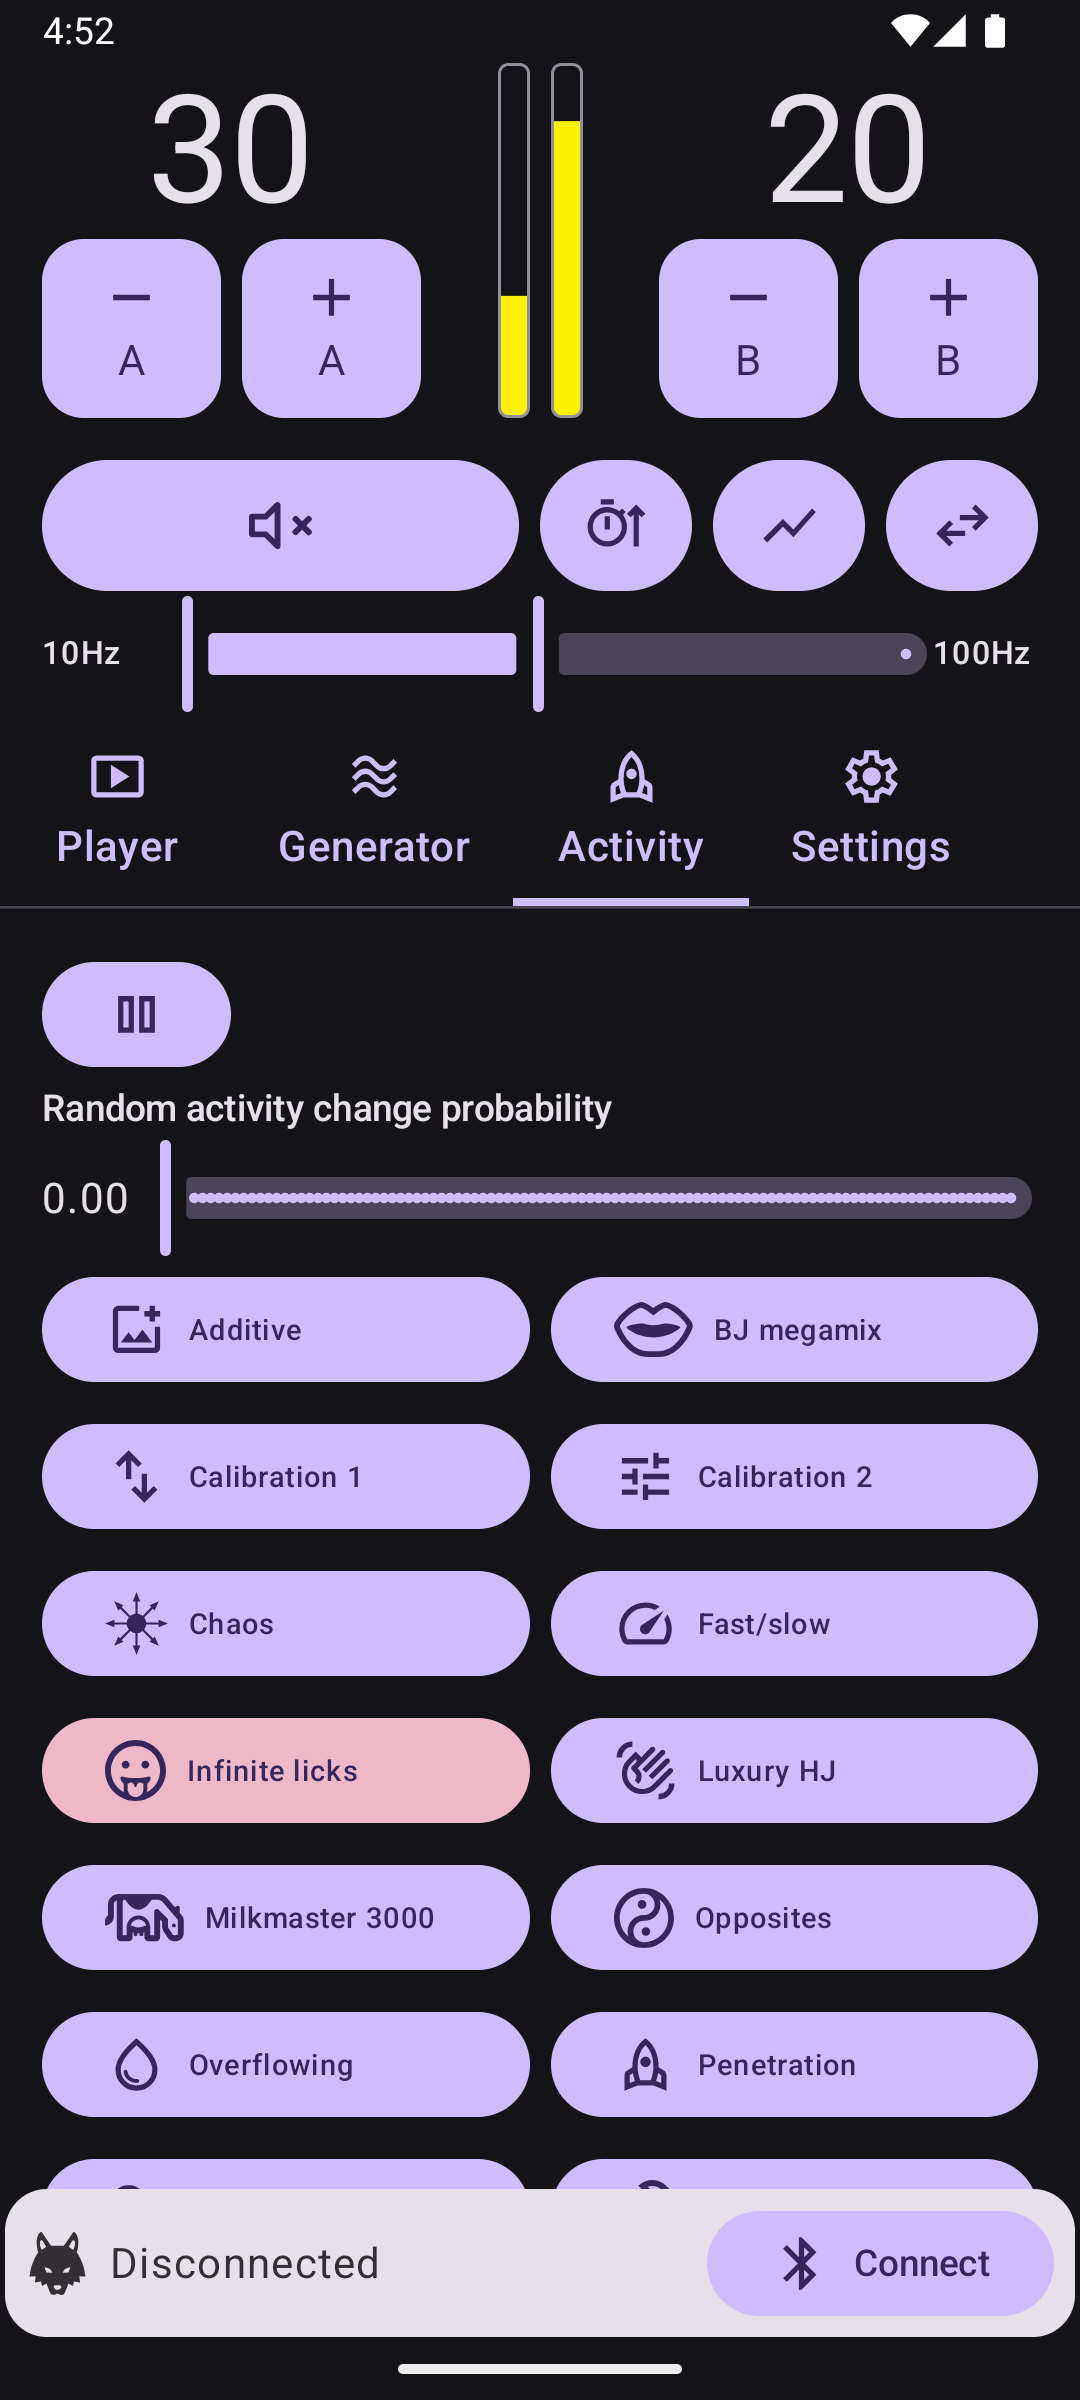
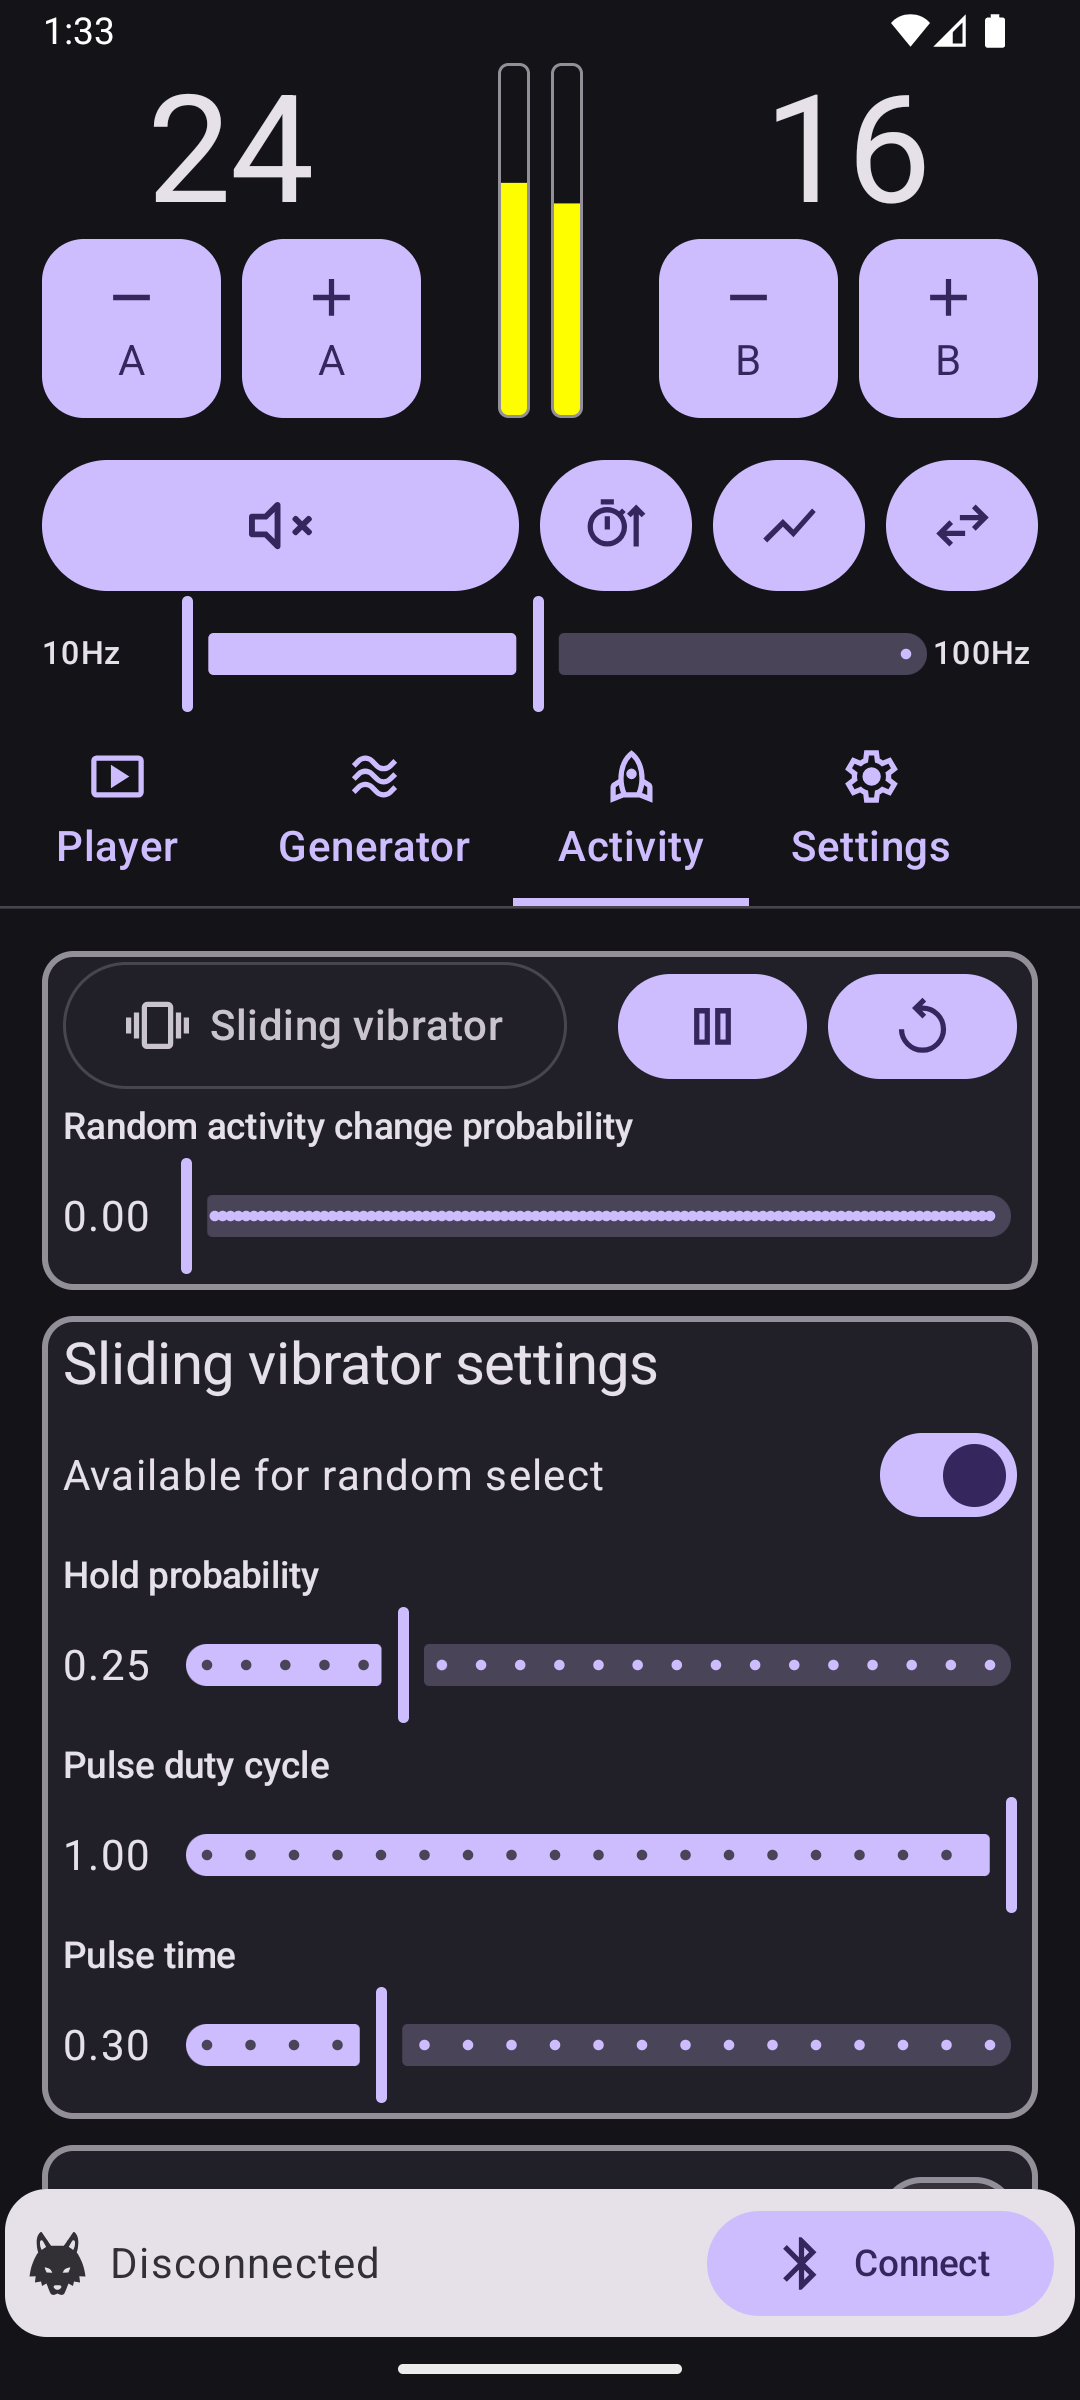
Update readme and activity screenshot

diff --git a/readme.md b/readme.md
@@ -168,11 +168,9 @@ The probability of speed, power, frequency and shape changes can all be set inde
 
 ## Activity
 
-Howl offers a number of built-in "activities". These are patterns with random elements that Howl generates in real-time (they are individual small programs). They are intended as a more interesting alternative to having fixed preset patterns.
+Howl offers a number of built-in "activities". These are patterns with random elements that Howl generates in real-time. They provide a more interesting alternative to just having fixed preset patterns.
 
-The activities are generally designed with the default 10Hz-100Hz frequency range in mind (but you can certainly change that and experiment). They do not necessarily use the full configured range, as each activity is intended to feel unique and noticeably different from the others.
-
-The [list of activities wiki page](https://github.com/Amethyst-Sysadmin/Howl/wiki/List-of-activities) gives some information about each available activity, such as how it works, or what it is intended to represent.
+The [list of activities wiki page](https://github.com/Amethyst-Sysadmin/Howl/wiki/List-of-activities) gives information about all of the available activities. This includes what they represent, what their settings do (where applicable) and any extra details about how they work.
 
 ## Settings
 